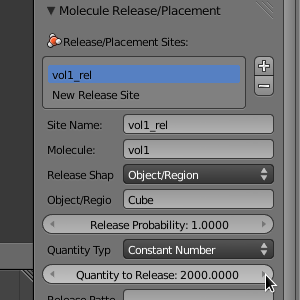
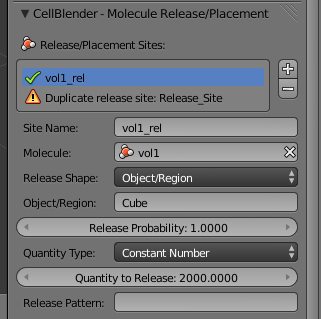
Updated the Getting Started for the new version of CellBlender
Took the first page from zero to visualization. Some of this
had been on subsequent pages when MDL editing was required,
but with CellBlender it seemed like it might work on one page.

diff --git a/getting_started.rst b/getting_started.rst
@@ -58,10 +58,10 @@ Hit the **Object** button in the **Properties Editor** (little cube in the right
 
 .. image:: ./images/gs_object_button.png
 
-Scroll to the bottom of the Properties Editor panel (if needed). Expand the **Define Surface Regions** 
+Scroll to the bottom of the Properties Editor panel (if needed). Expand the **CellBlender - Define Surface Regions** 
 panel by clicking the small triangle next to the name (*note that you may have to scroll
 further after actions which expand the sizes of panels because new fields may appear beyond
-the currently visible portion of the panel*). Hit the **+** button and new region named "**Region**"
+the currently visible portion of the panel*). Hit the **+** button and new region named "**Region_0**"
 should appear in the list of regions, indicating that a new surface region was created.
 
 .. image:: ./images/gs_new_region.png
@@ -98,7 +98,7 @@ rather than orange). Then select just the top two triangular faces by **holding 
 
 .. image:: ./images/gs_select_top.png
 
-Under the **Define Surface Regions** panel, click the **Assign** button (*remember that
+Under the **CellBlender - Define Surface Regions** panel, click the **Assign** button (*remember that
 you might need to scroll down to see the new buttons added*).
 
 .. image:: ./images/gs_assign.png
@@ -122,47 +122,56 @@ Hit the **Scene** button in the **Properties Editor**.
 
 There may be many Scene panels which are open (triangles pointing downward). In order to
 find things easily, take the time to close all of these panels by clicking the triangles
-to collapse them down to one line each. Then find and expand just the **Model Objects** panel.
+to collapse them down to one line each. All of the Scene panels installed by CellBlender
+will start with the name "CellBlender", to make them easier to find. Now find and expand
+just the **CellBlender - Model Objects** panel.
 With the **Cube** object still selected, hit the **+** button. This will add **Cube** to the
 list of mesh objects to be exported and initialized.
 
 .. image:: ./images/gs_model_objects.png
 
-Now find and expand the **Model Initialization** panel. Change **Simulation Iterations** to
-**1000**. Change **Simulation Time Step** to **5e-6**. The units are in seconds.
+Now find and expand the **CellBlender - Model Initialization** panel. Change **Simulation Iterations** to
+**1000**. Change the Simulation **Time Step** to **5e-6**. The units are in seconds.
 
 .. image:: ./images/gs_model_init.png
 
 Define Molecules
 ---------------------------------------------
 
-We will now define three new molecule species. Expand the **Define Molecules**
+We will now define three new molecule species. Expand the **CellBlender - Define Molecules**
 panel and hit the **+** button three times. This will create three instances of
 **Molecule** in the list of molecules (don't worry about the "Duplicate molecule..."
-warning because we'll be renaming each of these molecules next).
+warnings because we'll be renaming each of these molecules next).
 
 .. image:: ./images/gs_new_molecules.png
 
-
-.. warning::
-
-    Some images may be from older versions and need to be updated.
-
 Left click on the first instance of **Molecule**. Change the **Molecule
 Name** to **vol1**, the **Molecule Type** to **Volume Molecule**, and the
-**Diffusion Constant** to **1e-6**. Repeat this process for the next molecule
-in the list, but call this one **vol2**. Now, change the third entry to
+**Diffusion Constant** to **1e-6**. 
+
+.. image:: ./images/gs_define_molecule_vol1.png
+
+Repeat this process for the next molecule
+in the list, but call this one **vol2**. It will also be a **Volume Molecule** with a **Diffusion Constant** of **1e-6**.
+
+.. image:: ./images/gs_define_molecule_vol2.png
+
+Now, change the third entry to
 **surf1**. The **Molecule Type** should be set to **Surface Molecule** and
 change the **Diffusion Constant** to **1e-7**.
 
-.. image:: ./images/gs_define_molecules.png
+.. image:: ./images/gs_define_molecule_surf1.png
 
 Define Reactions
 ---------------------------------------------
 
 In order to have our molecules interact with one another, we first need to
-define some reactions. Expand the **Define Reactions** panel and hit the **+**
-button. Change **Reactants** to **vol1' + surf1,**. Change **Products** to
+define some reactions. Expand the **CellBlender - Define Reactions** panel and hit the **+**
+button. Initially you may get a "Product error:" because nothing is defined yet:
+
+.. image:: ./images/gs_define_reaction_empty.png
+
+Change **Reactants** to **vol1' + surf1,**. Change **Products** to
 **surf1, + vol2,**. Be sure to use the commas and apostrophes shown in these
 examples.
 
@@ -187,58 +196,198 @@ Create Release Sites
 We have defined molecules and reactions, but we still need to release some
 molecules into our simulation.
 
-Expand the **Molecule Release/Placement** panel and hit the **+** button twice,
-which will create two instances of **Release Site**. Select the first instance
+Expand the **CellBlender - Molecule Release/Placement** panel and hit the **+** button twice.
+This will create two instances of **Release Site** with errors because we haven't defined
+any molecule names yet.
+
+.. image:: ./images/gs_release_empty.png
+
+Select the first instance
 (*you may need to scroll down to see the entire panel*), and change **Site Name** 
-to **vol1_rel**. Change **Molecule** to **vol1**. Change **Release Shape** to 
-**Object/Region**. Change **Object/Region** to **Cube**. Change **Quantity to Release** 
+to **vol1_rel**.
+
+.. image:: ./images/gs_release_add_vol1_rel.png
+
+Change **Molecule** to **vol1**.
+
+.. image:: ./images/gs_release_add_vol1_rel_mol.png
+
+Change **Release Shape** to **Object/Region**.
+
+.. image:: ./images/gs_release_add_vol1_rel_shape.png
+
+Change **Object/Region** to **Cube**.
+
+.. image:: ./images/gs_release_add_vol1_rel_obj.png
+
+Change **Quantity to Release** 
 to **2000**. This will release 2000 **vol1** molecules randomly throughout the interior 
 of the **Cube** object.
 
 .. image:: ./images/gs_vol1_rel.png
 
 Now select the second release site. Change **Site Name** to **surf1_rel**.
-Change **Molecule** to **surf1'**. Change **Release Shape** to
+Change **Molecule** to **surf1**. Change **Release Shape** to
 **Object/Region**. Change **Object/Region** to **Cube[top]**. Change **Quantity
 to Release** to **2000**. This will release **2000** molecules randonmly on the
 **top** surface region.
 
 .. image:: ./images/gs_surf1_rel.png
 
-Under **Reaction Output Settings**, enable **Include Reaction Output**. Then,
-under **Visualization Output Settings**, enable **Include Viz Output**.
+Open the **CellBlender - Reaction Output Settings** panel.
 
-.. image:: ./images/gs_rxn_viz_output.png
+.. image:: ./images/gs_rxn_viz_output_empty.png
 
-.. _export_mdls:
+Click the "plus" sign 3 times to save reaction data for each of 3 different molecule species.
+They will show up as errors because they haven't been chosen yet, and there are no default values.
 
-Export MDLs
+.. image:: ./images/gs_rxn_viz_output_three_new.png
+
+Select and highlight the first of the "Molecule name error" definitions and change its molecule name to "**surf1**" as shown here:
+
+.. image:: ./images/gs_rxn_viz_output_select_surf1.png
+
+After clicking on "**surf1**", the top of that panel should look like this:
+
+.. image:: ./images/gs_rxn_viz_output_surf1_selected.png
+
+The description next to the check box indicates that MCell will be counting and saving the count (number) of surf1 molecules in the "World".
+
+Repeat this process for the other two "Molecule name error" entries assigning them to vol1 and vol2 respectively to get this:
+
+.. image:: ./images/gs_rxn_viz_output_all_selected.png
+
+Open the **CellBlender - Visualization Output Settings** panel (*be sure to scroll down to see the whole panel*):
+
+.. image:: ./images/gs_rxn_viz_output_empty.png
+
+Then click the **Toggle All** button to export all molecules for visualization:
+
+.. image:: ./images/gs_rxn_viz_output_all_selected.png
+
+Prepare to Run the Model
 ---------------------------------------------
 
-Under **CellBlender Project Settings**, select **Set CellBlender Project Directory**.
-Navigate to the directory where we will export the files
-(**/home/user/mcell_tutorial/intro** where **user** is your user name) and hit
-**OK** when it prompts you to make a new directory. Then select **Set Project
-Directory**.
+Open the **CellBlender - Project Settings** panel:
 
-.. image:: ./images/gs_set_project_dir_pt1.png
+.. image:: ./images/gs_project_settings_new.png
 
-.. image:: ./images/gs_set_project_dir_pt2.png
+If you've never run MCell from this version of CellBlender, you will find that the push-pin for the MCell Binary is unset. Click the 
+"**Set Path to MCell Binary**" button and navigate to the location of your MCell binary.
 
-Set the **Project Base** to **intro**. Then hit **Export CellBlender Project**,
-navigate to same directory as before, and hit **Export MCell MDL**.
+.. image:: ./images/gs_project_settings_mcell_binary.png
 
-.. image:: ./images/gs_project_base_prefix.png
+Complete the selection by clicking the "**Set MCell Binary**" button in the upper right corner of the file selection panel:
 
-.. image:: ./images/gs_export_mcell_mdl.png
+.. image:: ./images/gs_project_settings_mcell_binary_set.png
 
-Either leave Blender open or save and quit, as we'll need to modify this model
-later.
+You should now see a check next to the "MCell Binary" followed by the full path you've chosen (you may need to widen the panel to see the full path).
 
-At the command line, type::
+.. image:: ./images/gs_project_settings_mcell_binary_checked.png
 
-    ls
+The last step before running is to save your Blender project file to a folder in your directory structure. Use the "**File / Save As**" menu item:
 
-You should notice that we have created four new files: **intro.main.mdl**,
-**intro.geometry.mdl**, **intro.molecules.mdl**, and **intro.reactions.mdl**.
-We will take a look at all of these in turn.
+.. image:: ./images/gs_project_file_save_as.png
+
+Then type in a project name as the file name ("getting_started.blend" for example):
+
+.. image:: ./images/gs_project_file_save_as_gs.png
+
+Then click the "**Save As Blender File**" button. Afterward, the Project Directory should also be checked:
+
+.. image:: ./images/gs_project_file_saved.png
+
+Now you're ready to run the MCell Simulation.
+
+
+Run the MCell Simulation
+---------------------------------------------
+
+Open the **CellBlender - Run Simulation** panel:
+
+.. image:: ./images/gs_run_defaults.png
+
+Change the **End Seed** to 3 for three trials. If you started Blender from a console, you might also 
+select "**Send to Console**" for the Output Log setting.
+
+.. image:: ./images/gs_run_seed3_out_to_console.png
+
+Finally, click the "**Run Simulation**" button to start the MCell run. CellBlender will display the
+Process ID information for the runs:
+
+.. image:: ./images/gs_run_process_ids.png
+
+The Console will show a lot of information ... hopefully concluding with something like this:
+
+.. image:: ./images/gs_run_console_output.png
+
+
+Visualize the Molecules within the Model
+---------------------------------------------
+
+.. warning::
+
+    For some reason, the viz data is not being loaded automatically.
+    
+To view the molecules over time, open the "**CellBlender - Visualize Simulation Results**" panel
+and click the "**Read Viz Data**" button:
+
+.. image:: ./images/gs_viz_read.png
+
+This will load all of the molecule position information into Blender and it will adjust the time line
+to match the amount of simulation time. So you may need to use a combination of rolling your mouse wheel
+(to zoom the time line) and clicking and dragging with the mouse wheel (to move the timeline) until you
+are able to see the entire simulation time span in the time line (light gray with dark gray on each end):
+
+.. image:: ./images/gs_viz_timeline_scaled.png
+
+Now you can drag the green timeline cursor to show the molecules at different times from 0 to 1000:
+
+.. image:: ./images/gs_viz_timeline_scene_805.png
+
+Because the cube defaults to being opaque, you cannot initially see the molecules inside of it.
+To change this, first right click on the cube itself. This should add an orange highlight to the
+outline of the entire cube as shown below. If your right click happens to land on a molecule, you
+may find that the molecules are highlighted orange rather than the cube. Just try clicking again
+until you can select just the cube as shown here:
+
+.. image:: ./images/gs_viz_cube_selected.png
+
+With the cube selected, move from the Scene panel to the Object panel by clicking the small cube in
+the panel selector menu:
+
+.. image:: ./images/gs_viz_Object_panel.png
+
+In the "Display" panel, you'll find a "Type:" selector which is most likely set to "Textured":
+
+.. image:: ./images/gs_viz_display_textured.png
+
+Change that selector to "Wire":
+
+.. image:: ./images/gs_viz_display_wire.png
+
+You should now be able to see all of your molecules:
+
+.. image:: ./images/gs_viz_display_all.png
+
+This would be a good time to experiment a little bit with scrolling the mouse wheel to zoom in and out,
+and clicking and dragging the mouse wheel to change viewing angle.
+
+
+Review
+---------------------------------------------
+
+This tutorial started with Blender's default cube and divided it up into triangular faces.
+
+The top faces were defined to be a special region that we called "top".
+
+We defined 3 different molecular species: surf1, vol1, and vol2.
+
+We defined reactions with the surface molecules that transformed vol1 molecules inside the box into vol2 molecules outside the box.
+
+We initialized the simulation by releasing specific numbers of molecules in (or on) specific regions of the physical model.
+
+We specified which data to export, we set up our path to MCell, and we ran the simulation.
+
+Finally, we used Blender to view the spatial history of our simulation over time.
+
